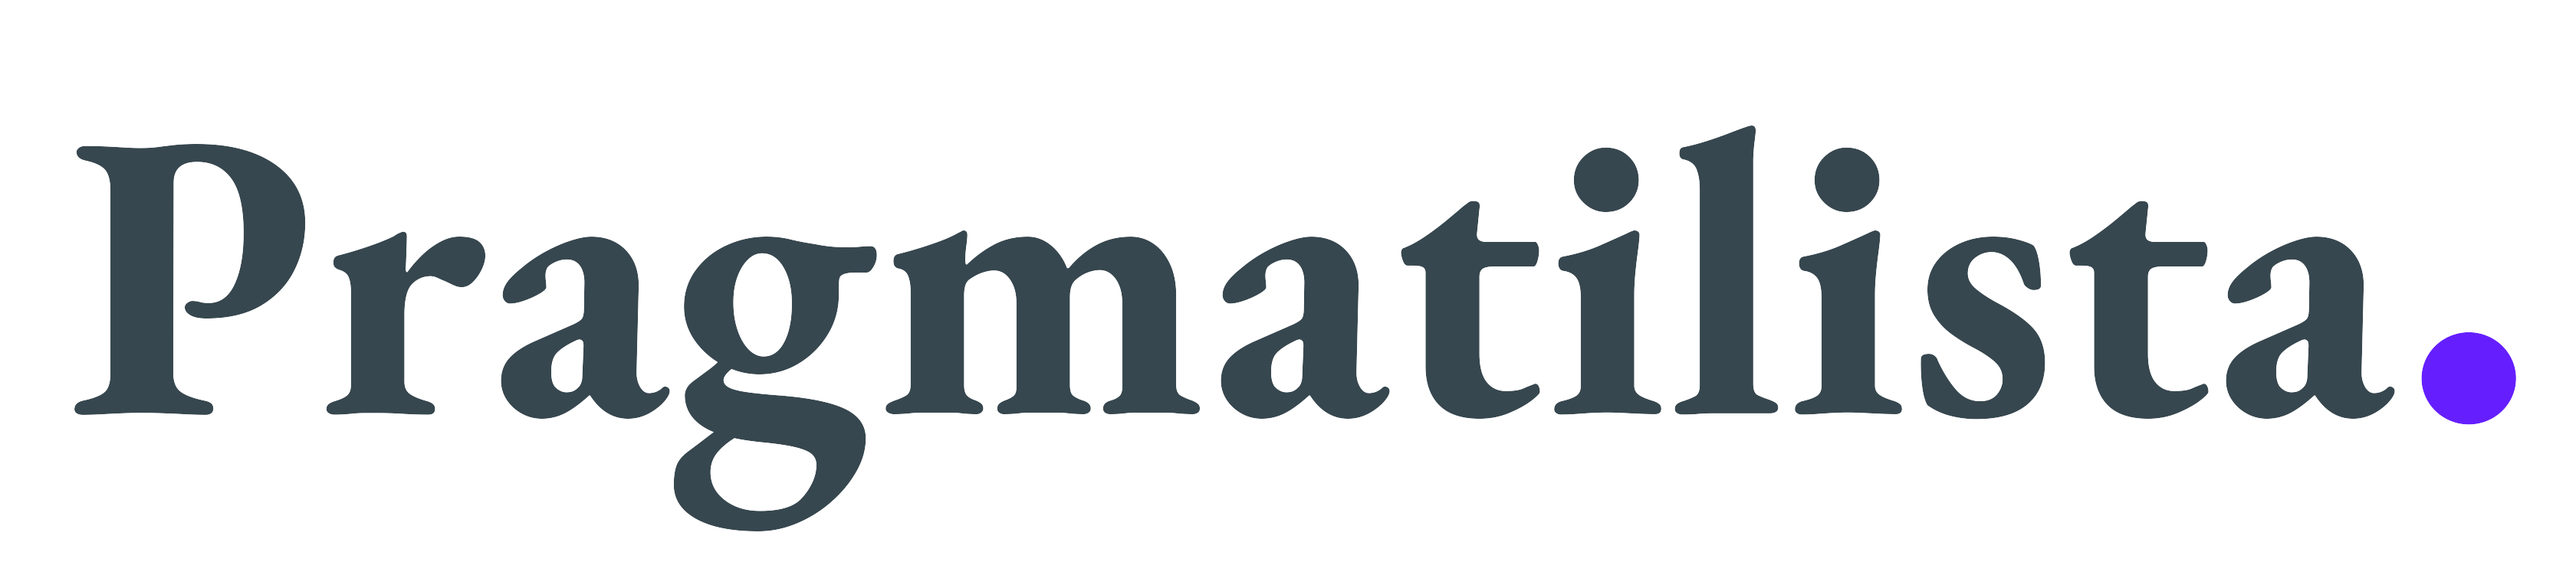
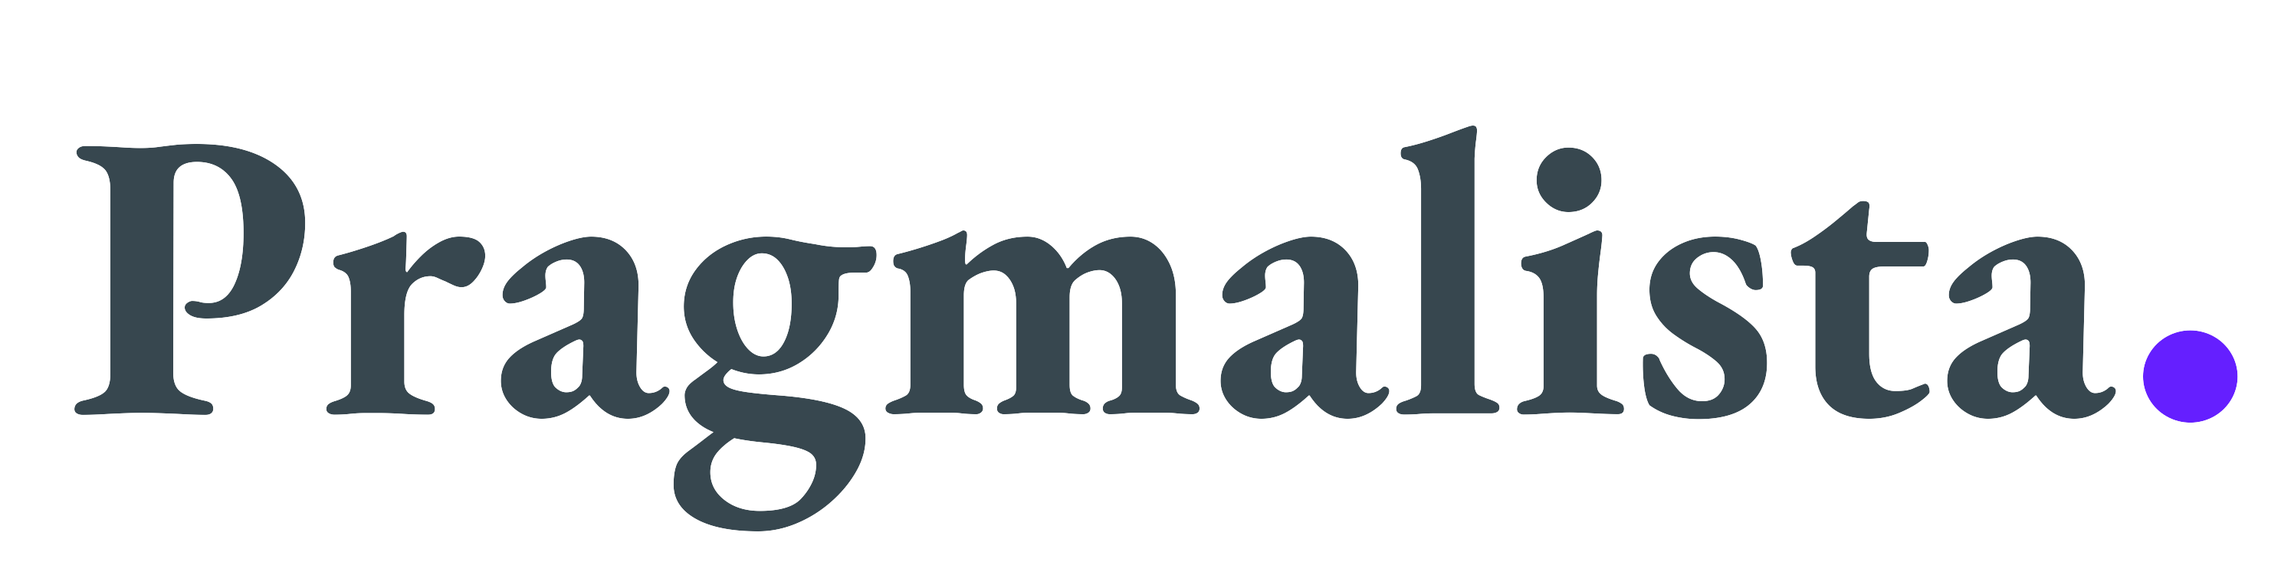
Update to pragmalista

Changed region(s): [[0.0312, 0.2188, 0.9688, 0.9062], [0.9688, 0.5938, 1.0, 0.6875]]

diff --git a/content/about/index.md b/content/about/index.md
@@ -4,8 +4,8 @@ render = true
 template = "about.html"
 +++
 
-{{ img(path="/banner.png", alt="Logo di pragmatilista", caption="") }}
+{{ img(path="/banner.png", alt="Logo di pragmalista", caption="") }}
 
 &nbsp;
 
-Questo è un sito per gli studenti del Liceo "E. Fermi" di Padova. È correntemente gestito da **Pragmatilista**. Votateci per assicurare l'esistenza di questo sito :).
+Questo è un sito per gli studenti del Liceo "E. Fermi" di Padova. È correntemente gestito da Grigory Vodyanov di **Pragmalista** (lista #2). Votateci per assicurare l'esistenza di questo sito :).
